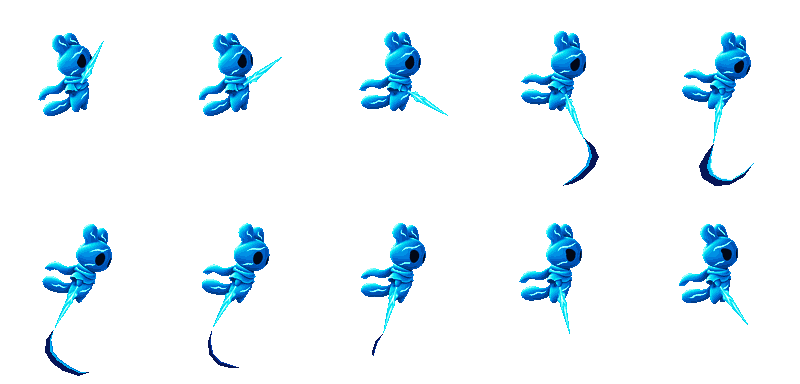
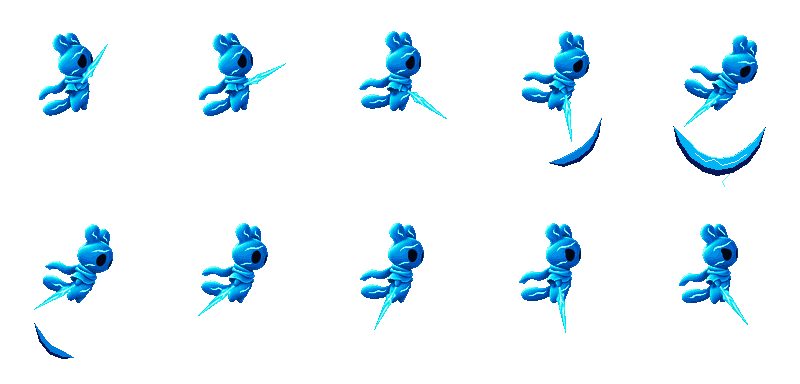
fix(art): 아래 베기 타격 자세와 궤적 재보정
타격 시 워든의 몸을 깊게 기울여 검을 뒤로 통과시키고 세로 전류 대신 짧고 넓은 pixelfx 궤적을 표시한다.

전원 구역 실제 SDL 창에서 왼쪽 헛베기와 오른쪽 적중 및 반동을 27프레임으로 비교했다. 입력은 도구에서 전달했다.

diff --git a/assets/warden/downstrike-source/build_poses.py b/assets/warden/downstrike-source/build_poses.py
@@ -61,11 +61,11 @@ weapon_grip = (419, 887)
 weapon_axis = degrees(atan2(79-887, 1386-419))
 weapon_scale = 51 / hypot(1386-419, 79-887)
 # Torso, arm and weapon angles are authored in screen space. One grip drives every weapon pose.
-keys = [(-9, 261, -128, -62, 2, 1), (-8, 265, -113, -36, 4, 3),
-        (4, 274, -77, 32, -1, -3), (13, 270, -45, 68, -8, -9),
-        (20, 265, -16, 100, -14, -14), (22, 257, 6, 119, -13, -8),
-        (18, 256, 15, 119, -7, 0), (12, 258, 4, 106, -1, 5),
-        (6, 260, -23, 78, 3, 3), (0, 257, -35, 54, 0, 0)]
+keys = [(-8, 261, -128, -56, 2, 1), (-8, 265, -113, -27, 4, 3),
+        (5, 274, -77, 36, -1, -3), (18, 270, -43, 83, -8, -9),
+        (32, 263, 12, 138, -14, -14), (24, 257, 27, 149, -13, -8),
+        (15, 256, 17, 140, -7, 0), (9, 258, -1, 117, -1, 5),
+        (5, 260, -23, 82, 3, 3), (0, 257, -35, 54, 0, 0)]
 y_grid, x_grid = np.mgrid[:480, :480]
 cloth_weight = np.clip((217 - x_grid) / 125, 0, 1) * np.clip((365 - y_grid) / 25, 0, 1)
 tail_weight = np.clip((230 - x_grid) / 140, 0, 1) * np.clip((y_grid - 325) / 43, 0, 1)
